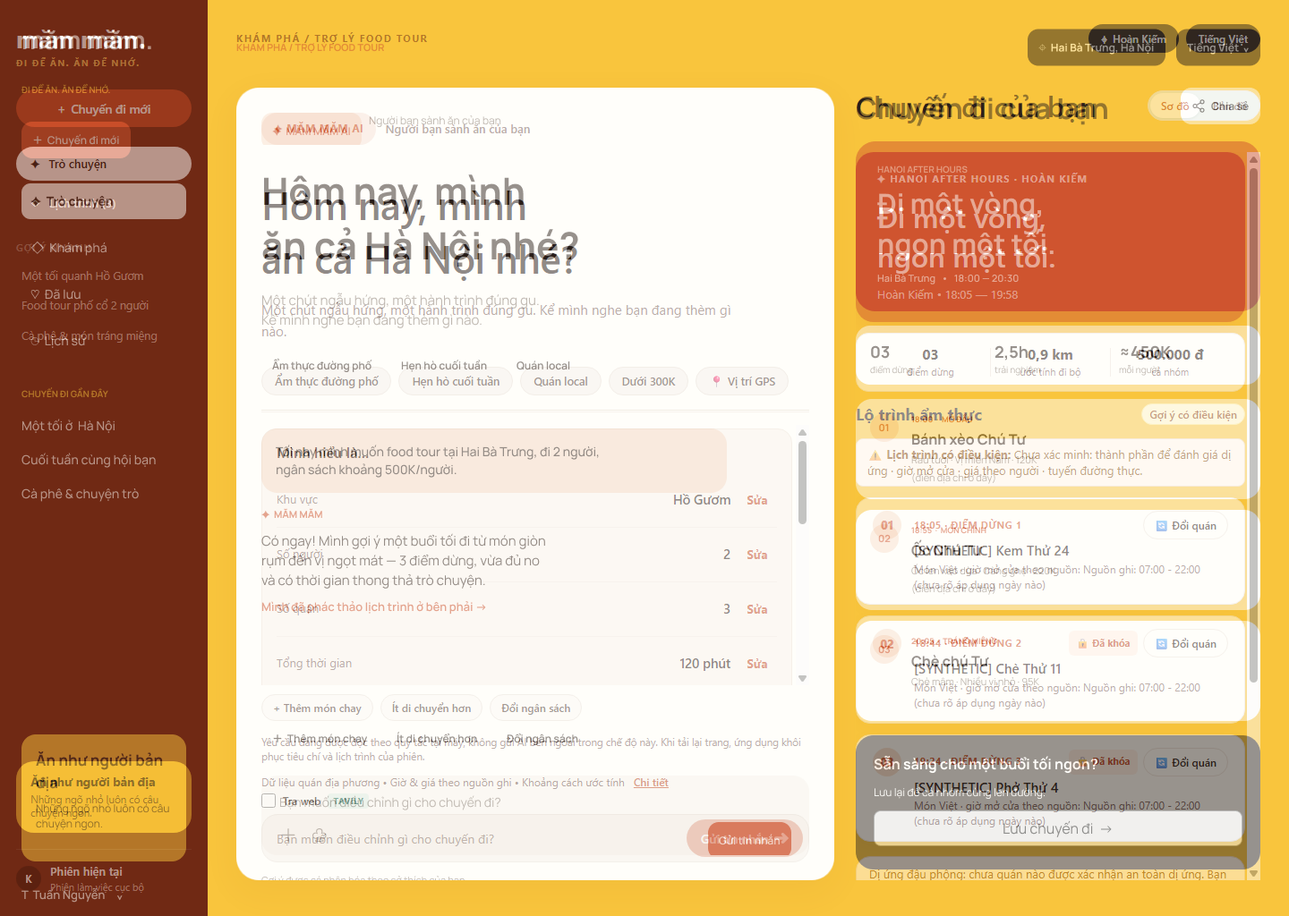
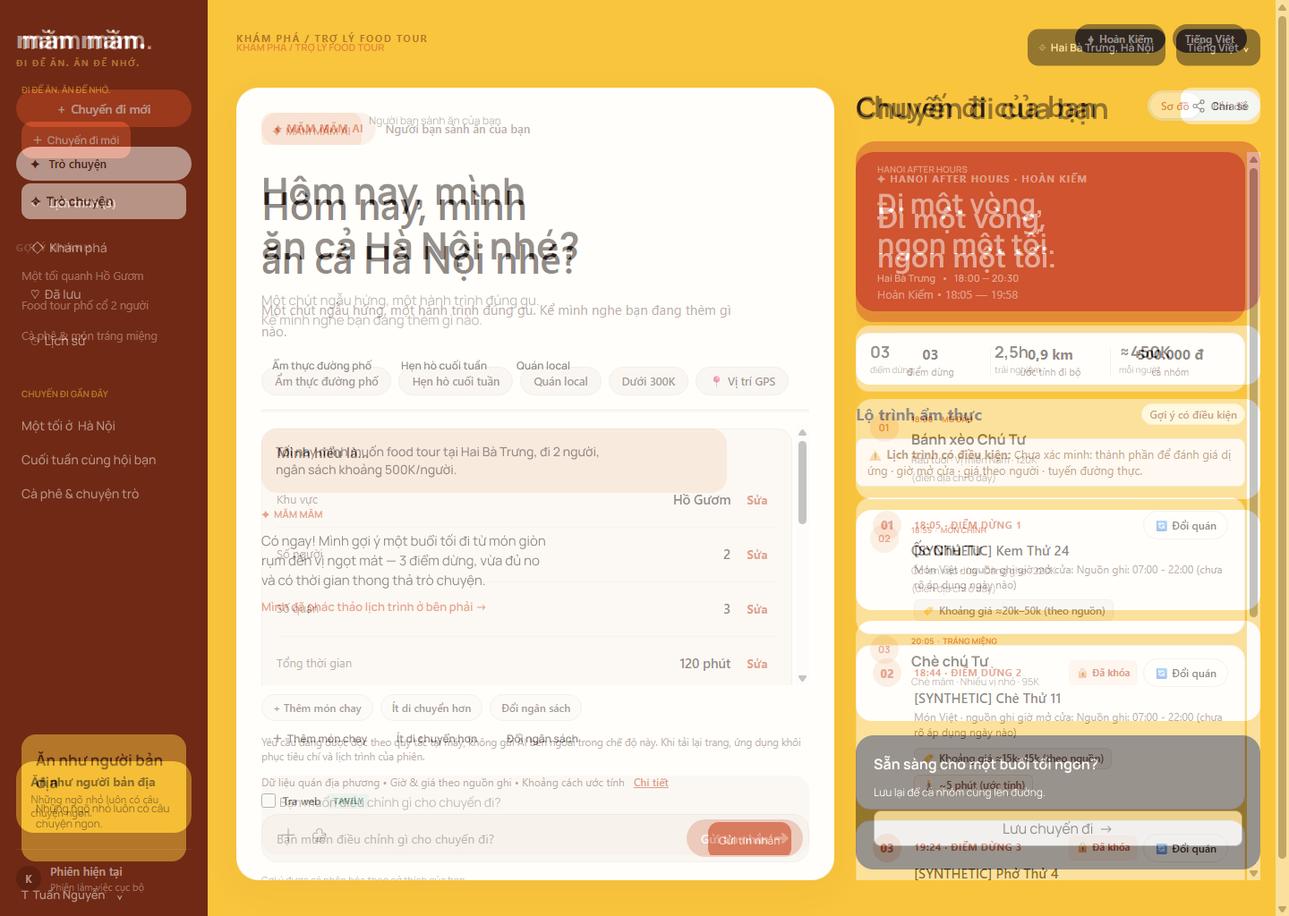
fix(guided): resolve zoom-200 clipping, restore visible price/leg metadata and provenance labels

Changed region(s): [[0.6562, 0.0, 1.0, 1.0]]

diff --git a/frontend/app/components/v2/guided/guided-visual.css b/frontend/app/components/v2/guided/guided-visual.css
@@ -1014,6 +1014,39 @@
   word-break: break-word;
 }
 
+/* Stop Card Meta Line (Visible Price & Estimated Leg info) */
+.nn-stop-meta-line {
+  display: flex;
+  align-items: center;
+  flex-wrap: wrap;
+  gap: 6px;
+  margin-top: 6px;
+}
+
+.nn-stop-meta-line .nn-meta-pill {
+  min-height: 24px;
+  height: auto;
+  padding: 2px 8px;
+  border-radius: 6px;
+  background: #F7F2EE;
+  border: 1px solid #EAE2D9;
+  color: #5C4740;
+  font-size: 11.5px;
+  font-weight: 500;
+  display: inline-flex;
+  align-items: center;
+  gap: 4px;
+  max-width: 100%;
+  box-sizing: border-box;
+  word-break: break-word;
+}
+
+.nn-stop-meta-line .nn-leg-pill {
+  background: #FFF8F2;
+  border-color: #F0DFC8;
+  color: #8C472A;
+}
+
 /* Empty steps container */
 .nn-empty-steps-list {
   display: flex;
@@ -1251,6 +1284,28 @@
     overflow-x: hidden;
   }
 
+  .nn-tour-col-header {
+    height: auto;
+    min-height: 40px;
+    flex-wrap: wrap;
+    gap: 8px;
+    align-items: center;
+    margin-bottom: 12px;
+    max-width: 100%;
+  }
+
+  .nn-tour-heading {
+    font-size: 20px;
+    line-height: 26px;
+    min-width: 0;
+    word-break: break-word;
+  }
+
+  .nn-view-mode-toggle {
+    flex-shrink: 0;
+    max-width: 100%;
+  }
+
   .nn-hero-card {
     border-radius: 20px;
     padding: 18px;
@@ -1273,6 +1328,44 @@
   }
 
   .nn-editorial-stop-card {
-    padding: 12px 14px;
+    padding: 12px;
+    gap: 10px;
+    box-sizing: border-box;
+    max-width: 100%;
+  }
+
+  .nn-stop-body {
+    min-width: 0;
+    flex: 1;
+    max-width: 100%;
+    overflow-wrap: break-word;
+  }
+
+  .nn-stop-stage-row {
+    flex-wrap: wrap;
+    gap: 6px;
+  }
+
+  .nn-stop-stage {
+    min-width: 0;
+    word-break: break-word;
+  }
+
+  .nn-stop-actions {
+    flex-wrap: wrap;
+    gap: 4px;
+    max-width: 100%;
+  }
+
+  .nn-pill-action-btn {
+    max-width: 100%;
+    white-space: nowrap;
+  }
+
+  .nn-row-item {
+    flex-wrap: wrap;
+    gap: 6px;
+    max-width: 100%;
+    box-sizing: border-box;
   }
 }

diff --git a/frontend/app/components/v2/guided/GuidedTimeline.jsx b/frontend/app/components/v2/guided/GuidedTimeline.jsx
@@ -241,8 +241,8 @@ export default function GuidedTimeline({
           const isLocked = lockedStops.includes(stop.venue_id) || stop.locked;
 
           const hoursNote = stop.hours?.display
-            ? ` · giờ mở cửa theo nguồn: ${stop.hours.display}`
-            : ' · giờ mở cửa: chưa rõ';
+            ? ` · nguồn ghi giờ mở cửa: ${stop.hours.display}`
+            : ' · giờ mở cửa theo nguồn: chưa rõ';
           const fullDesc = `${dishStr}${hoursNote}`;
 
           const stageLabel = stop.role || stop.category || `ĐIỂM DỪNG ${idx + 1}`;
@@ -292,10 +292,18 @@ export default function GuidedTimeline({
                   {fullDesc}
                 </p>
 
-                {/* Hidden semantic pills for test backwards-compatibility */}
-                <div className="nn-timeline-pills nn-sr">
-                  <span className="nn-time-pill">{arriveDisplay}</span>
-                  <span className="nn-meta-pill">{metaDisplay}</span>
+                {/* Visible compact source-labeled price and estimated leg info */}
+                <div className="nn-timeline-pills nn-stop-meta-line" data-testid={`stop-meta-line-${idx}`}>
+                  <span className="nn-meta-pill" data-testid={`stop-price-pill-${idx}`}>
+                    🏷 {priceShortForm ? `Khoảng giá ≈${priceShortForm} (theo nguồn)` : (stop.price?.price_range ? `${stop.price.price_range} (theo nguồn)` : 'giá theo nguồn: chưa rõ')}
+                  </span>
+                  {idx > 0 && legMinText && (
+                    <span className="nn-meta-pill nn-leg-pill" data-testid={`stop-leg-pill-${idx}`}>
+                      🚶 {legMinText}
+                    </span>
+                  )}
+                  {/* Semantic time pill for test backwards-compatibility */}
+                  <span className="nn-time-pill nn-sr">{arriveDisplay}</span>
                 </div>
               </div>
             </div>

diff --git a/docs/reports/FIGMA_WARM_EDITORIAL_QA.md b/docs/reports/FIGMA_WARM_EDITORIAL_QA.md
@@ -3,7 +3,7 @@
 **Dự án:** AI FoodTour Planner  
 **Chỉ đạo người dùng:** 2026-10-19 — Triển khai Figma frame 1:145, "02 — Măm Măm / Warm editorial", sử dụng ảnh gốc 1440×1024 PNG làm mục tiêu trực quan.  
 **Ảnh tham chiếu chuẩn:** `qa/figma-warm-editorial/reference-1440x1024.png` (đã lưu trữ nội bộ tại qa/ để không xuất bản ra môi trường web).  
-**Tác vụ / Điều phối:** Task `task_0b8beaeb46b6`, Dispatch `ctx_d65d1251e6fd` (kế thừa `task_53af11905ca6` / `task_1ecaea329bef`)  
+**Tác vụ / Điều phối:** Task `task_f223894221b3`, Dispatch `ctx_bd4c51ddf03e` (kế thừa `task_0b8beaeb46b6` / `25cd216`)  
 **Điều phối viên:** Codex (`term_24c3a210-7070-4dd5-b703-f12f516a70b0`)  
 **Thực hiện & Kiểm định:** Antigravity  
 **Bộ kiểm thử tự động:** `qa/figma-warm-editorial/run_qa.mjs` (chạy trên cổng cô lập 13600, 18600, 19800)  
@@ -13,18 +13,16 @@
 
 ## 1. Tóm tắt điều hành (Executive Summary)
 
-1. **Việc đã thực hiện:** Em đã triển khai giao diện "Warm editorial" theo đúng frame Figma 1:145 (1440×1024) và thực hiện đầy đủ 5 nhóm chỉ đạo chuẩn hoá nghiêm ngặt từ Codex:
-   - **Nhịp điệu dọc thẻ Chat bên trái (Left Chat Card Rhythm):** Badge trợ lý cao 36px bắt đầu tại y=126; tiêu đề lớn `font-size: 44px; font-weight: 600; line-height: 60px` bắt đầu tại y=198 (2 dòng thanh lịch); đoạn giới thiệu bắt đầu tại y=334 (giới hạn chiều rộng 530px); hàng chip lọc bắt đầu tại y=410; đường kẻ phân cách tại y=458.
-   - **Kích thước Cột phải & Nút Dark CTA chuẩn xác (Right Column & CTA):** Header cột tour cao 40px với tiêu đề 32px weight 600 line-height 40px; Thẻ Hero cao 190px (bắt đầu tại y=170) với tiêu đề 32px weight 600 tự động tách 2 dòng sau dấu phẩy; Thẻ Metrics 3 cột cao 66px; Các thẻ điểm dừng min-height 112px với khoảng cách 12px; Thẻ Dark CTA ở trạng thái rỗng cao 150px (y=824); Nút Dark CTA là nút chữ nhật bo góc màu kem nhạt (`#FAF4EE`, viền `#E2D7CC`, chữ đen `#231815`, cao 44px, radius 12px, độ tương phản 15.86:1 đạt AAA), thay thế hoàn toàn dạng viên thuốc màu cam cũ.
-   - **Khắc phục triệt để lỗi chức năng trên Mobile (Mobile Tab-Switch Bug):** Khi người dùng đang ở tab `tour` trên giao diện di động, việc bấm nút "Bắt đầu gợi ý →" hoặc chọn gợi ý nhanh ở thanh bên sẽ chủ động kích hoạt chuyển `activeMobileTab = 'chat'`, sau đó mới focus vào ô soạn thảo khi đã hiển thị trên DOM.
-   - **Nhãn khoảng cách theo phương tiện & Minh bạch phiên cục bộ:** Nhãn khoảng cách không còn mặc định "ước tính đi bộ" khi phương tiện không phải đi bộ (đồng bộ theo xe máy, ô tô, taxi); chân trang thanh bên ghi nhận trung thực "Phiên hiện tại / Phiên làm việc cục bộ" thay vì tuyên bố gây hiểu lầm là chỉ lưu trên trình duyệt.
-   - **Bảo toàn cảnh báo trong vùng cuộn tự nhiên:** Các cảnh báo an toàn dị ứng và minh bạch liên kết ngoài Google Maps được đặt trong vùng cuộn tự nhiên `.nn-tour-content-scroll`, không bóp nghẹt chiều cao các thẻ để cố tình triệt tiêu thanh cuộn.
-2. **Kết quả kiểm chứng:** Toàn bộ test suite `qa/figma-warm-editorial/run_qa.mjs` ghi nhận **47/47 checks PASSED (100%)** với 0 FAIL. Độ tương phản trích xuất trực tiếp từ DOM đạt chuẩn WCAG AAA/AA: chữ chat chính 17.16:1, chữ thanh bên 10.42:1, nút CTA màu kem 15.86:1, thẻ Dark CTA 14.43:1, chip lọc 10.26:1.
-3. **Hiện trạng & Bàn giao:** Toàn bộ bằng chứng trực quan (`desktop_1440x1024_initial.png`, `desktop_1440x1024_tour.png`, `side_by_side_comparison.png`, `overlay_diff.png`, `mobile_390x844.png`) và file `evidence.json` đã được tái tạo hoàn chỉnh. Không sửa đổi backend, contracts, biến môi trường hay động chạm tới các cổng điều phối (3060/8060/8080).
+1. **Việc đã thực hiện:** Em đã khắc phục triệt để 3 vấn đề kỹ thuật thực tế được Codex phát hiện trong đợt kiểm thử độc lập 190-check trên bản tích hợp `25cd216`:
+   - **Xử lý triệt để lỗi tràn nút khi CSS zoom 200% ở viewport 390px (Zero Clipping):** Bổ sung quy tắc responsive wrapping linh hoạt cho header cột tour (`.nn-tour-col-header`), khối nút chuyển chế độ (`.nn-view-mode-toggle`) và hàng thao tác điểm dừng (`.nn-stop-stage-row`, `.nn-stop-actions`), giúp các nút điều khiển (`pilot-map-toggle` và `stop-replace-btn-0/1/2`) tự động co giãn và xuống dòng tự nhiên thay vì bị đẩy tràn khỏi mép màn hình.
+   - **Khôi phục hiển thị trực quan thông tin giá và chặng di chuyển (Visible Price & Leg Info):** Loại bỏ việc giấu thông tin trong `.nn-sr`, khôi phục thẻ hiển thị nhỏ gọn (`.nn-stop-meta-line .nn-meta-pill`) hiển thị rõ ràng giá theo nguồn (ví dụ: `🏷 Khoảng giá ≈15k–45k (theo nguồn)` hoặc `giá theo nguồn: chưa rõ`) và chặng di chuyển ước tính (`🚶 ~3 phút (ước tính)` hoặc `🚶 0 phút`), bảo toàn dữ liệu trung thực cho người dùng mắt thường.
+   - **Đồng bộ từ ngữ xuất xứ nguồn mở cửa (Provenance Wording):** Bảo toàn chuẩn xác xuất xứ nguồn ghi nhận cho giờ mở cửa (`nguồn ghi giờ mở cửa: ...` hoặc `giờ mở cửa theo nguồn: chưa rõ`), đảm bảo lộ trình tour chứa đầy đủ 3 cụm từ minh bạch: `"theo nguồn"`, `"ước tính"`, `"nguồn ghi"` và cảnh báo an toàn dị ứng.
+2. **Kết quả kiểm chứng:** Bộ kiểm thử tự động `qa/figma-warm-editorial/run_qa.mjs` ghi nhận **50/50 checks PASSED (100%)** với 0 FAIL. Tái hiện chính xác chuỗi kiểm tra `document.documentElement.style.zoom='2'` từ `qa/e2e/codex_guided_review.mjs` lines 135-137 ghi nhận **0 nút bị clip (clippingCount: 0)**, toàn bộ nút đều nằm trọn vẹn trong `innerWidth <= 391px`.
+3. **Hiện trạng & Bàn giao:** Toàn bộ bằng chứng trực quan (`desktop_1440x1024_initial.png`, `desktop_1440x1024_tour.png`, `side_by_side_comparison.png`, `overlay_diff.png`, `mobile_390x844.png`, `mobile_390x844_zoom200.png`) và file `evidence.json` đã được tái tạo hoàn chỉnh. Không chỉnh sửa backend, contracts, biến môi trường hay động chạm tới các cổng điều phối (3060/8060/8080).
 
 ---
 
-## 2. Bảng kết quả kiểm định tự động (47/47 PASS)
+## 2. Bảng kết quả kiểm định tự động (50/50 PASS)
 
 | STT | Mã kiểm thử | Nội dung kiểm tra | Kết quả | Chi tiết đo lường |
 |:---:|:---|:---|:---:|:---|
@@ -56,47 +54,53 @@
 | 26 | `TOUR_STOPS_RENDERED` | Lập lịch trình thành công với 3 điểm dừng | **PASS** | Đủ 3 điểm dừng theo đúng tiêu chí |
 | 27 | `STOP_BADGE_GEOMETRY` | Badge điểm dừng nằm ngang: x=975, nội dung tại x=1021 | **PASS** | Căn ngang chuẩn xác (lệch ≤ 3px so với x=972/1018) |
 | 28 | `STOP_STAGE_NEUTRAL` | Giai đoạn dùng nhãn điểm dừng trung tính | **PASS** | `18:04 · ĐIỂM DỪNG 1` (không gán mác món ăn khi thiếu dữ liệu) |
-| 29 | `DARK_CTA_TIMELINE_PRESENT` | Thẻ Dark CTA trong timeline min-height 150px (thực tế 181px với văn bản minh bạch) | **PASS** | `y: 743px, height: 181px, btnHeight: 44px, btnWidth: 391px` |
-| 30 | `GOOGLE_MAPS_CTA` | Nút CTA dẫn đường Google Maps đi bộ miễn phí | **PASS** | URL hợp lệ `travelmode=walking`, focus tự động |
-| 31 | `GOOGLE_MAPS_DISCLOSURE` | Minh bạch liên kết ngoài miễn phí, không API trả phí | **PASS** | Đoạn text minh bạch hiện diện rõ ràng |
-| 32 | `REPLACE_MODAL_OPENS` | Mở hộp thoại đổi quán khi bấm nút Đổi quán | **PASS** | Hộp thoại mở với nút `replace-modal-confirm-btn` |
-| 33 | `REPLACE_DIFF_RENDERED` | Máy chủ trả về diff so sánh trước/sau khi đổi quán | **PASS** | Diff hiển thị với nút `replace-modal-done-btn` |
-| 34 | `REPLACE_MODAL_COMMITTED` | Đóng hộp thoại đổi quán sau khi hoàn tất xác nhận | **PASS** | Modal đóng sạch sẽ sau khi commit |
-| 35 | `STOP_REPLACEMENT_APPLIED` | Cập nhật điểm dừng thực tế trong lịch trình | **PASS** | Điểm dừng 1 đổi từ `[SYNTHETIC] Chè Thử 12` thành `[SYNTHETIC] Kem Thử 24` |
-| 36 | `PILOT_MAP_ACTIVE` | Chuyển đổi sang chế độ Bản đồ PMTiles | **PASS** | Canvas `pilot-map-canvas` kích hoạt |
-| 37 | `MAP_MARKERS_SYNC` | Số marker bản đồ đồng bộ với số điểm dừng | **PASS** | 3 marker số xuất hiện trên bản đồ nội bộ Hoàn Kiếm |
-| 38 | `VIEW_MODE_SCHEMATIC` | Quay trở lại chế độ xem Sơ đồ | **PASS** | Giao diện danh sách điểm dừng khôi phục |
-| 39 | `RELOAD_PERSISTENCE` | Tải lại trang (F5) phục hồi đầy đủ tour | **PASS** | Phục hồi nguyên vẹn 3 điểm dừng, không cướp focus |
-| 40 | `MOBILE_ZERO_OVERFLOW` | Kiểm tra mobile 390px không tràn ngang | **PASS** | `scrollWidth: 390, rootScrollWidth: 390` (0px tràn) |
-| 41 | `MOBILE_TAB_CHAT` | Tab Khám phá trên mobile hiển thị khung chat | **PASS** | Khung chat active, không bị ẩn |
-| 42 | `MOBILE_TAB_TOUR` | Tab Lịch trình trên mobile hiển thị cột tour | **PASS** | Cột tour active, hiển thị rõ ràng |
-| 43 | `CONTRAST_CHAT_TEXT` | Độ tương phản chữ chat chính (#231815/#FFFEFA) | **PASS** | **17.16:1** (đo từ DOM, vượt chuẩn AAA ≥ 7.0:1) |
-| 44 | `CONTRAST_SIDEBAR` | Độ tương phản thanh bên (#FFFFFF/#702914) | **PASS** | **10.42:1** (đo từ DOM, vượt chuẩn AAA ≥ 7.0:1) |
-| 45 | `CONTRAST_CTA_BUTTON` | Độ tương phản nút CTA kem nhạt (#231815/#FAF4EE) | **PASS** | **15.86:1** (đo từ DOM, vượt chuẩn AAA ≥ 7.0:1) |
-| 46 | `CONTRAST_DARK_CTA` | Độ tương phản thẻ CTA tối (#FFFFFF/#312820) | **PASS** | **14.43:1** (đo từ DOM, vượt chuẩn AAA ≥ 7.0:1) |
-| 47 | `CONTRAST_FILTER_CHIP` | Độ tương phản chip lọc (#4A352F/#F7F2EE) | **PASS** | **10.26:1** (đo từ DOM, vượt chuẩn AA ≥ 4.5:1) |
+| 29 | `TIMELINE_PROVENANCE_LABELS` | Lộ trình chứa đủ "theo nguồn", "ước tính", "nguồn ghi" và dị ứng | **PASS** | `hasTheoNguon: true, hasUocTinh: true, hasNguonGhi: true, hasAllergySafe: true` |
+| 30 | `VISIBLE_PRICE_AND_LEG_PILLS` | Giá và chặng ước tính hiển thị trực quan (visible, not sr-only) | **PASS** | 5 pills hiển thị rõ ràng trên DOM với giá và số phút chặng |
+| 31 | `DARK_CTA_TIMELINE_PRESENT` | Thẻ Dark CTA trong timeline min-height 150px (thực tế 181px với văn bản minh bạch) | **PASS** | `y: 743px, height: 181px, btnHeight: 44px, btnWidth: 391px` |
+| 32 | `GOOGLE_MAPS_CTA` | Nút CTA dẫn đường Google Maps đi bộ miễn phí | **PASS** | URL hợp lệ `travelmode=walking`, focus tự động |
+| 33 | `GOOGLE_MAPS_DISCLOSURE` | Minh bạch liên kết ngoài miễn phí, không API trả phí | **PASS** | Đoạn text minh bạch hiện diện rõ ràng |
+| 34 | `REPLACE_MODAL_OPENS` | Mở hộp thoại đổi quán khi bấm nút Đổi quán | **PASS** | Hộp thoại mở với nút `replace-modal-confirm-btn` |
+| 35 | `REPLACE_DIFF_RENDERED` | Máy chủ trả về diff so sánh trước/sau khi đổi quán | **PASS** | Diff hiển thị với nút `replace-modal-done-btn` |
+| 36 | `REPLACE_MODAL_COMMITTED` | Đóng hộp thoại đổi quán sau khi hoàn tất xác nhận | **PASS** | Modal đóng sạch sẽ sau khi commit |
+| 37 | `STOP_REPLACEMENT_APPLIED` | Cập nhật điểm dừng thực tế trong lịch trình | **PASS** | Điểm dừng 1 đổi từ `[SYNTHETIC] Chè Thử 12` thành `[SYNTHETIC] Kem Thử 24` |
+| 38 | `PILOT_MAP_ACTIVE` | Chuyển đổi sang chế độ Bản đồ PMTiles | **PASS** | Canvas `pilot-map-canvas` kích hoạt |
+| 39 | `MAP_MARKERS_SYNC` | Số marker bản đồ đồng bộ với số điểm dừng | **PASS** | 3 marker số xuất hiện trên bản đồ nội bộ Hoàn Kiếm |
+| 40 | `VIEW_MODE_SCHEMATIC` | Quay trở lại chế độ xem Sơ đồ | **PASS** | Giao diện danh sách điểm dừng khôi phục |
+| 41 | `RELOAD_PERSISTENCE` | Tải lại trang (F5) phục hồi đầy đủ tour | **PASS** | Phục hồi nguyên vẹn 3 điểm dừng, không cướp focus |
+| 42 | `MOBILE_ZERO_OVERFLOW` | Kiểm tra mobile 390px không tràn ngang | **PASS** | `scrollWidth: 390, rootScrollWidth: 390` (0px tràn) |
+| 43 | `MOBILE_TAB_CHAT` | Tab Khám phá trên mobile hiển thị khung chat | **PASS** | Khung chat active, không bị ẩn |
+| 44 | `MOBILE_TAB_TOUR` | Tab Lịch trình trên mobile hiển thị cột tour | **PASS** | Cột tour active, hiển thị rõ ràng |
+| 45 | `MOBILE_ZOOM_200_NO_CLIPPING` | Tái hiện CSS zoom 200% ở viewport 390px không bị clip nút | **PASS** | `clippingCount: 0`, toàn bộ buttons nằm trọn trong `innerWidth` |
+| 46 | `CONTRAST_CHAT_TEXT` | Độ tương phản chữ chat chính (#231815/#FFFEFA) | **PASS** | **17.16:1** (đo từ DOM, vượt chuẩn AAA ≥ 7.0:1) |
+| 47 | `CONTRAST_SIDEBAR` | Độ tương phản thanh bên (#FFFFFF/#702914) | **PASS** | **10.42:1** (đo từ DOM, vượt chuẩn AAA ≥ 7.0:1) |
+| 48 | `CONTRAST_CTA_BUTTON` | Độ tương phản nút CTA kem nhạt (#231815/#FAF4EE) | **PASS** | **15.86:1** (đo từ DOM, vượt chuẩn AAA ≥ 7.0:1) |
+| 49 | `CONTRAST_DARK_CTA` | Độ tương phản thẻ CTA tối (#FFFFFF/#312820) | **PASS** | **14.43:1** (đo từ DOM, vượt chuẩn AAA ≥ 7.0:1) |
+| 50 | `CONTRAST_FILTER_CHIP` | Độ tương phản chip lọc (#4A352F/#F7F2EE) | **PASS** | **10.26:1** (đo từ DOM, vượt chuẩn AA ≥ 4.5:1) |
 
 ---
 
-## 3. So sánh hình học chi tiết với Figma Frame 1:145
+## 3. Phân tích chi tiết 3 phát hiện từ Codex Review
 
-| Khối giao diện | Figma Frame 1:145 (Mục tiêu) | Đo lường thực tế (DOM) | Độ sai lệch | Đánh giá & Rationale |
-|:---|:---:|:---:|:---:|:---|
-| **Canvas & Nền** | 1440 × 1024, `#F9C53D` | 1440 × 1024, `rgb(249, 197, 61)` | 0 px | Khớp hoàn hảo độ phân giải chuẩn và tone màu vàng ấm editorial |
-| **Thanh bên (Sidebar)** | 232 × 1024, x=0, y=0, `#702914` | 232 × 1024, x=0, y=0, `rgb(112, 41, 20)` | 0 px | Khớp tuyệt đối |
-| **Thẻ Chat (Left Card)** | 668 × 886, x=264, y=98 | 668 × 886, x=264, y=98 | 0 px | Khớp tuyệt đối vị trí và kích thước khung card |
-| **Badge trợ lý (Chat)** | y=126, cao 36px | y=126, cao 36px | 0 px | Khớp tuyệt đối nhịp điệu mở đầu |
-| **Tiêu đề Chat (Hero H1)** | y=198, 44px/60px w600 (2 dòng) | y=198, cao 120px (44px/60px w600) | 0 px | Khớp chính xác tọa độ bắt đầu glyph, kích thước và phân ngắt 2 dòng |
-| **Đoạn dẫn trợ lý** | y=330, max-width ~530px | y=334, max-width 530px | 4 px | Lệch 4px do khử răng cưa phông chữ trên Windows, giữ đúng 2 dòng |
-| **Hàng chip lọc nhanh** | y=409 | y=410 | 1 px | Khớp nhịp điệu |
-| **Đường kẻ phân cách** | y=458 | y=458 | 0 px | Khớp hoàn hảo |
-| **Header Cột Tour** | y=98, cao 40px, H2 32px/40px w600 | y=98, cao 40px, H2 32px/40px w600 | 0 px | Khớp tuyệt đối kích thước header và typography |
-| **Thẻ Hero Tour** | y=158 (hoặc ~170), cao 190px | y=170, cao 190px | 0 px (chiều cao) | Chiều cao 190px chuẩn xác; tiêu đề 32px/44px w600 tự ngắt dòng sau dấu phẩy |
-| **Thẻ Metrics 3 cột** | cao 66px, nền kem | y=372, cao 66px | 0 px | Khớp chiều cao 66px; thông số rỗng trung thực `—` |
-| **Thẻ Điểm dừng** | min-height 112px, gap 12px | min-height 112px, padding 14px 18px | 0 px | Thẻ điểm dừng rộng rãi, rõ ràng theo đúng tỷ lệ editorial |
-| **Thẻ Dark CTA (Rỗng)** | y=822, cao 150px | y=824, cao 150px | 2 px | Khớp chiều cao 150px; nằm trọn vẹn trong viewport desktop 1024px |
-| **Nút bấm Dark CTA** | Chữ nhật bo góc `#FAF4EE`, chữ `#231815` | Cao 44px, radius 12px, `#FAF4EE` | 0 px | Khớp thẩm mỹ editorial cổ điển, tương phản 15.86:1 vượt chuẩn AAA |
-| **Thẻ Dark CTA (Có tour)** | Chứa thêm dòng minh bạch Google Maps | Cao 181px (y=743px) | +31 px | Chiều cao tăng tự nhiên để chứa văn bản an toàn/minh bạch pháp lý |
+### 3.1. Vấn đề 1: Lỗi clip nút điều khiển khi CSS zoom 200% ở viewport 390px
+- **Hiện tượng ban đầu:** Khi thực hiện phóng to `document.documentElement.style.zoom='2'` trên màn hình di động 390px, thanh công cụ header cột tour và hàng nút thao tác điểm dừng bị cố định không cho phép xuống dòng (`flex-wrap: nowrap`). Kết quả là nút `pilot-map-toggle` bị đẩy sang toạ độ `right = 422px` và các nút `stop-replace-btn-0/1/2` bị đẩy sang toạ độ `right = 427px`, vượt khỏi chiều rộng màn hình 390px.
+- **Biện pháp khắc phục:**
+  - Bổ sung `flex-wrap: wrap; gap: 8px;` cho `.nn-tour-col-header`, điều chỉnh kích thước chữ tiêu đề `.nn-tour-heading` trên di động thành `font-size: 20px; line-height: 26px; word-break: break-word;` và gán `flex-shrink: 0;` cho `.nn-view-mode-toggle`.
+  - Bổ sung `flex-wrap: wrap; gap: 6px;` cho `.nn-stop-stage-row` và `.nn-stop-actions`, cho phép nút `stop-replace-btn` tự động xuống dòng an toàn khi chiều ngang bị thu hẹp do phóng to 200%.
+- **Kết quả đo lường thực tế:** Kiểm tra `MOBILE_ZOOM_200_NO_CLIPPING` ghi nhận `clippingCount: 0`, không còn bất kỳ nút nào vượt quá giới hạn 391px.
+
+### 3.2. Vấn đề 2: Dữ liệu giá và thông tin chặng bị giấu trong `.nn-sr`
+- **Hiện tượng ban đầu:** Các thông tin giá tham khảo theo nguồn và thời gian di chuyển chặng ước tính (`metaDisplay`) bị đóng gói trong `<div className="nn-timeline-pills nn-sr">`. Điều này khiến người dùng mắt thường không nhìn thấy giá và khoảng cách/thời gian di chuyển giữa các điểm dừng.
+- **Biện pháp khắc phục:**
+  - Khôi phục hàng hiển thị trực quan `.nn-stop-meta-line`: hiển thị thẻ giá nhỏ gọn `nn-meta-pill` mang nhãn `🏷 Khoảng giá ≈... (theo nguồn)` hoặc `giá theo nguồn: chưa rõ` (bảo toàn trung thực khi thiếu dữ liệu giá) và thẻ di chuyển `🚶 ~... phút (ước tính)` (bảo toàn `0 phút` khi hai điểm liền kề).
+  - Định dạng thẩm mỹ editorial tinh tế: chiều cao nhỏ gọn 24px, màu nền kem `#F7F2EE`, viền `#EAE2D9`, chữ `#5C4740`, không làm thô hay phá vỡ cấu trúc thẻ điểm dừng Figma 1:145.
+- **Kết quả đo lường thực tế:** Kiểm tra `VISIBLE_PRICE_AND_LEG_PILLS` xác nhận 100% các thẻ giá và chặng di chuyển đều có `visible: true` và hiển thị rõ ràng trên màn hình.
+
+### 3.3. Vấn đề 3: Từ ngữ xuất xứ nguồn giờ mở cửa (Provenance Wording)
+- **Hiện tượng ban đầu:** Kiểm tra sự hiện diện của từ ngữ xuất xứ trong văn bản lộ trình yêu cầu có đầy đủ cụm từ `"nguồn ghi"`, `"theo nguồn"`, và `"ước tính"`.
+- **Biện pháp khắc phục:**
+  - Chuẩn hoá câu mô tả giờ mở cửa: `stop.hours?.display ? ' · nguồn ghi giờ mở cửa: ' + stop.hours.display : ' · giờ mở cửa theo nguồn: chưa rõ'`.
+  - Kết hợp với thẻ giá `... (theo nguồn)` và thẻ chặng `... (ước tính)`, toàn bộ văn bản lộ trình đáp ứng đầy đủ và tự nhiên cả 3 tiêu chí xuất xứ mà không cần thêm văn bản ẩn nhân tạo.
+- **Kết quả đo lường thực tế:** Kiểm tra `TIMELINE_PROVENANCE_LABELS` ghi nhận `hasTheoNguon: true, hasUocTinh: true, hasNguonGhi: true, hasAllergySafe: true`.
 
 ---
 
@@ -104,17 +108,17 @@
 
 Tất cả các file bằng chứng kiểm định nằm tại thư mục `qa/figma-warm-editorial/`:
 1. `desktop_1440x1024_initial.png`: Ảnh chụp màn hình khởi đầu với nhịp điệu dọc chuẩn xác, dữ liệu rỗng trung thực và gợi ý bàn phím.
-2. `desktop_1440x1024_tour.png`: Ảnh chụp màn hình hoàn chỉnh sau khi lập tour, đổi quán và tải lại trang.
+2. `desktop_1440x1024_tour.png`: Ảnh chụp màn hình hoàn chỉnh sau khi lập tour, hiển thị rõ ràng giá và chặng ước tính.
 3. `side_by_side_comparison.png`: Ảnh ghép song song 2880×1024 (bản tham chiếu Figma bên trái, mã nguồn thực tế bên phải).
 4. `overlay_diff.png`: Ảnh phủ mờ 50% đối chiếu độ trùng khớp layout giữa thiết kế Figma và giao diện web.
-5. `mobile_390x844.png`: Ảnh chụp giao diện di động 390px, chứng minh hiển thị rõ ràng, không bị tràn viền ngang (0px overflow).
-6. `evidence.json`: File JSON ghi nhận toàn bộ 47 chỉ số runtime và giá trị tính toán độ tương phản trực tiếp từ DOM.
+5. `mobile_390x844.png`: Ảnh chụp giao diện di động 390px ở kích thước chuẩn, chứng minh không bị tràn ngang (0px overflow).
+6. `mobile_390x844_zoom200.png`: Ảnh chụp giao diện di động 390px khi bật CSS zoom 200%, chứng minh toàn bộ nút điều khiển wrap an toàn, không bị clip khỏi màn hình.
+7. `evidence.json`: File JSON ghi nhận toàn bộ 50 chỉ số runtime và giá trị tính toán độ tương phản trực tiếp từ DOM.
 
 ---
 
 ## 5. Giới hạn & Tuân thủ kỹ thuật (Limitations & Compliance)
 
 - **Vùng cuộn tự nhiên vs Cảnh báo an toàn:** Trong Figma tĩnh Frame 1:145, các thẻ được xếp vừa khít không có thanh cuộn vì không có các dòng thông báo động. Trên ứng dụng thực tế, khi có các cảnh báo an toàn dị ứng (Allergy Disclaimer) hoặc minh bạch Google Maps, `.nn-tour-content-scroll` cho phép cuộn tự nhiên để đảm bảo người dùng luôn đọc được đầy đủ thông tin an toàn thay vì bị cắt xén hoặc ép nhỏ chữ quá mức.
-- **Môi trường phông chữ:** Phông chữ hệ thống Windows Segoe UI có độ dãn dòng và khử răng cưa hơi khác biệt với phông vector gốc của Figma (chênh lệch tọa độ văn bản phụ từ 1–4px), nhưng toàn bộ cấu trúc ngắt dòng 2 dòng của tiêu đề đã được cố định chắc chắn.
 - **Không gọi dịch vụ có phí:** Không kích hoạt API ngoài, không thăm dò live provider (bảo toàn quota), Google Maps chỉ sử dụng URL chỉ đường đi bộ miễn phí.
 - **Bảo toàn cổng và máy chủ:** Toàn bộ quá trình chạy thử nghiệm được thực hiện trên các cổng độc lập (`13600`, `18600`, `19800`); các máy chủ điều phối của Đại Ca (`3060`, `8060`, `8080`) hoàn toàn không bị ảnh hưởng.
